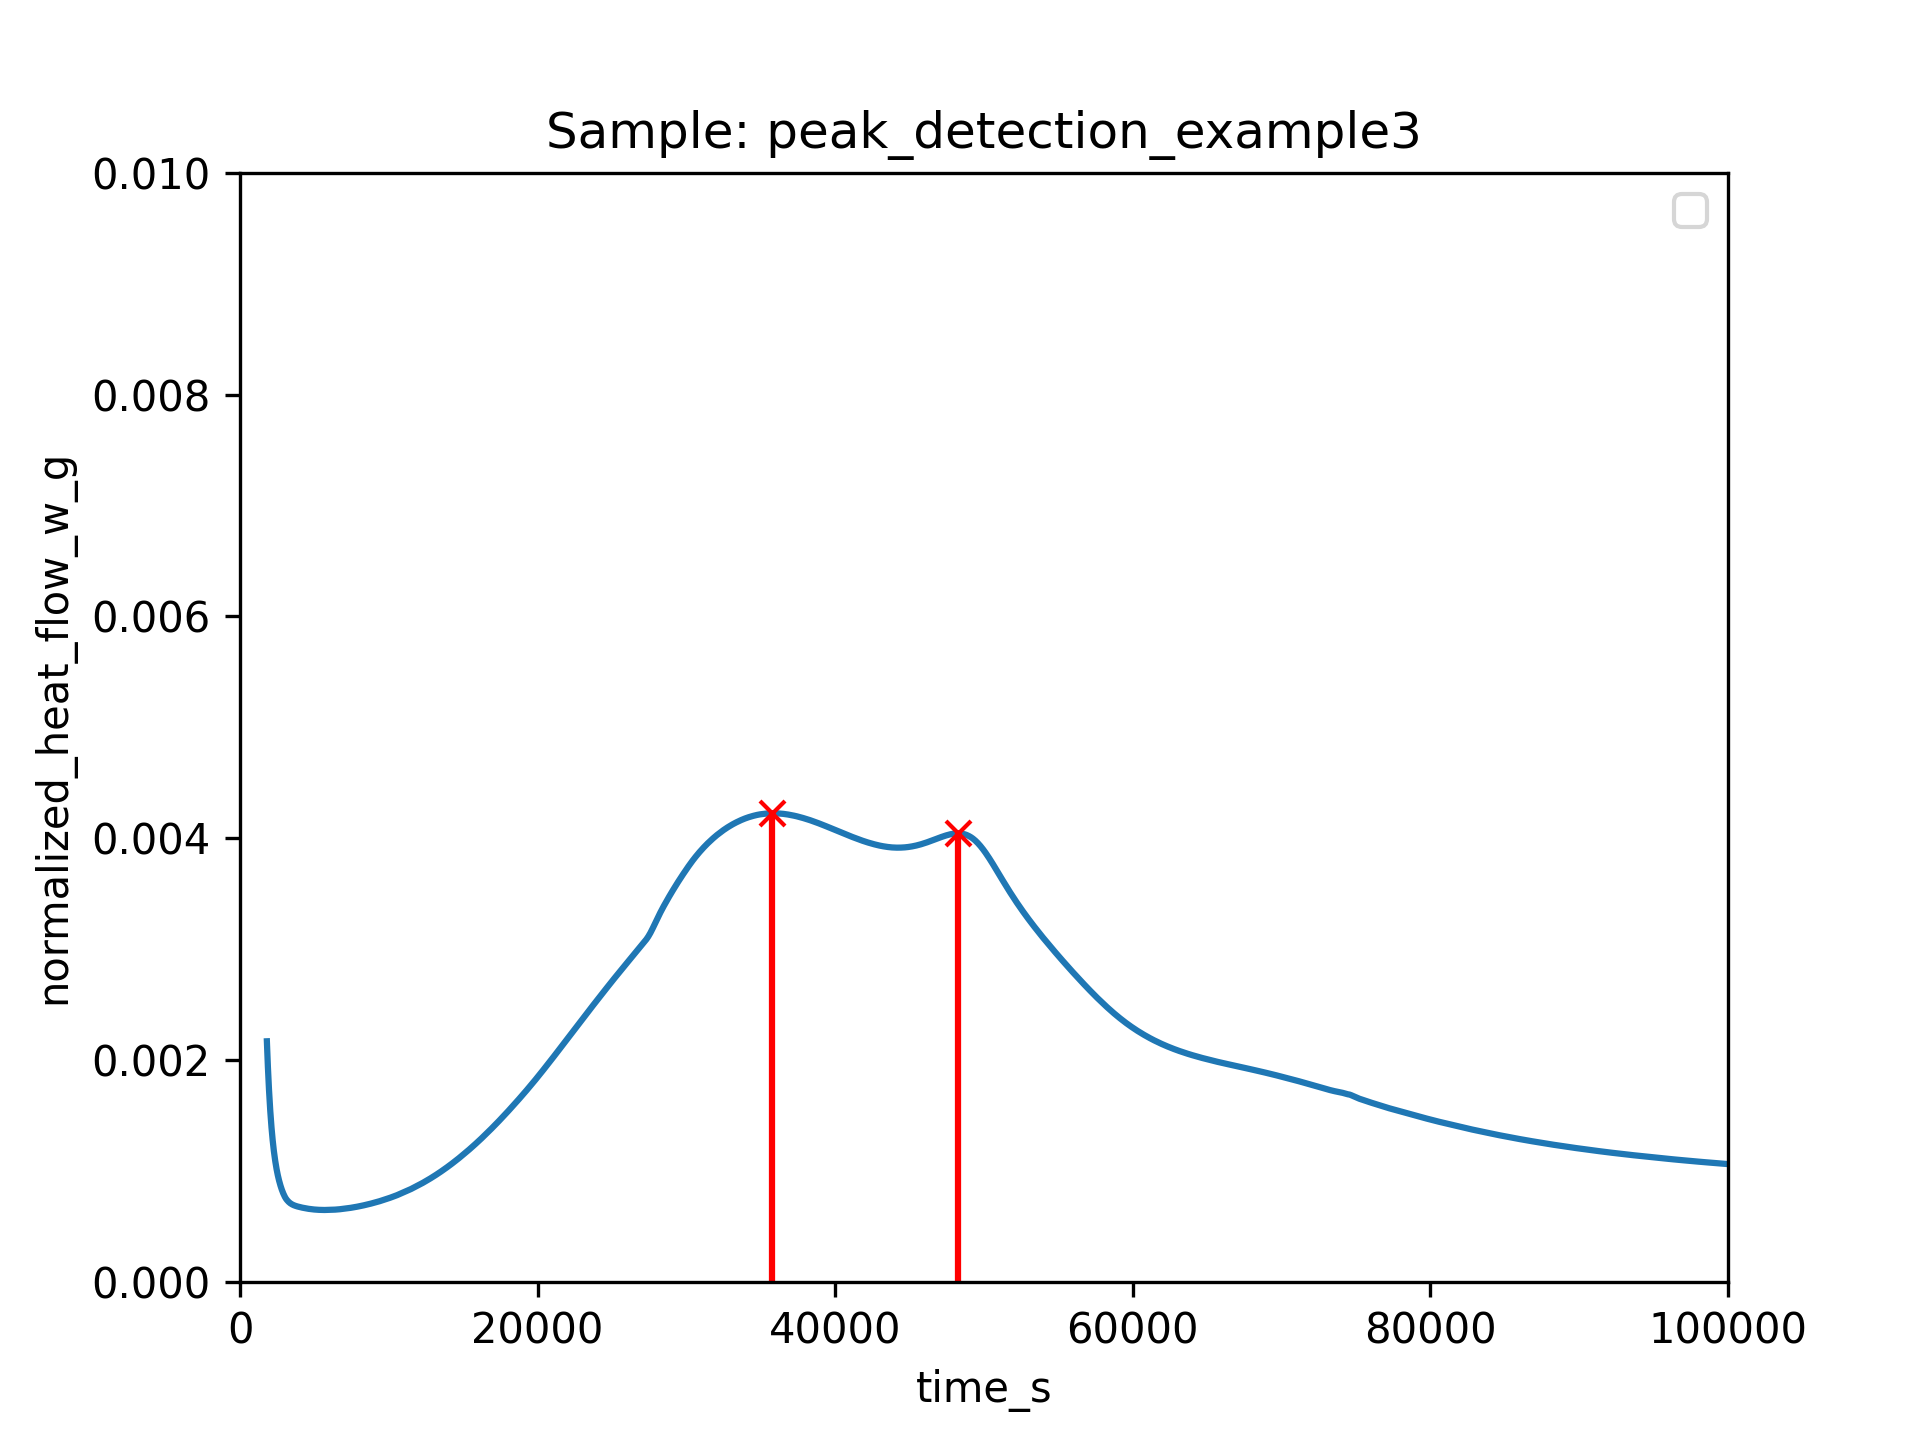
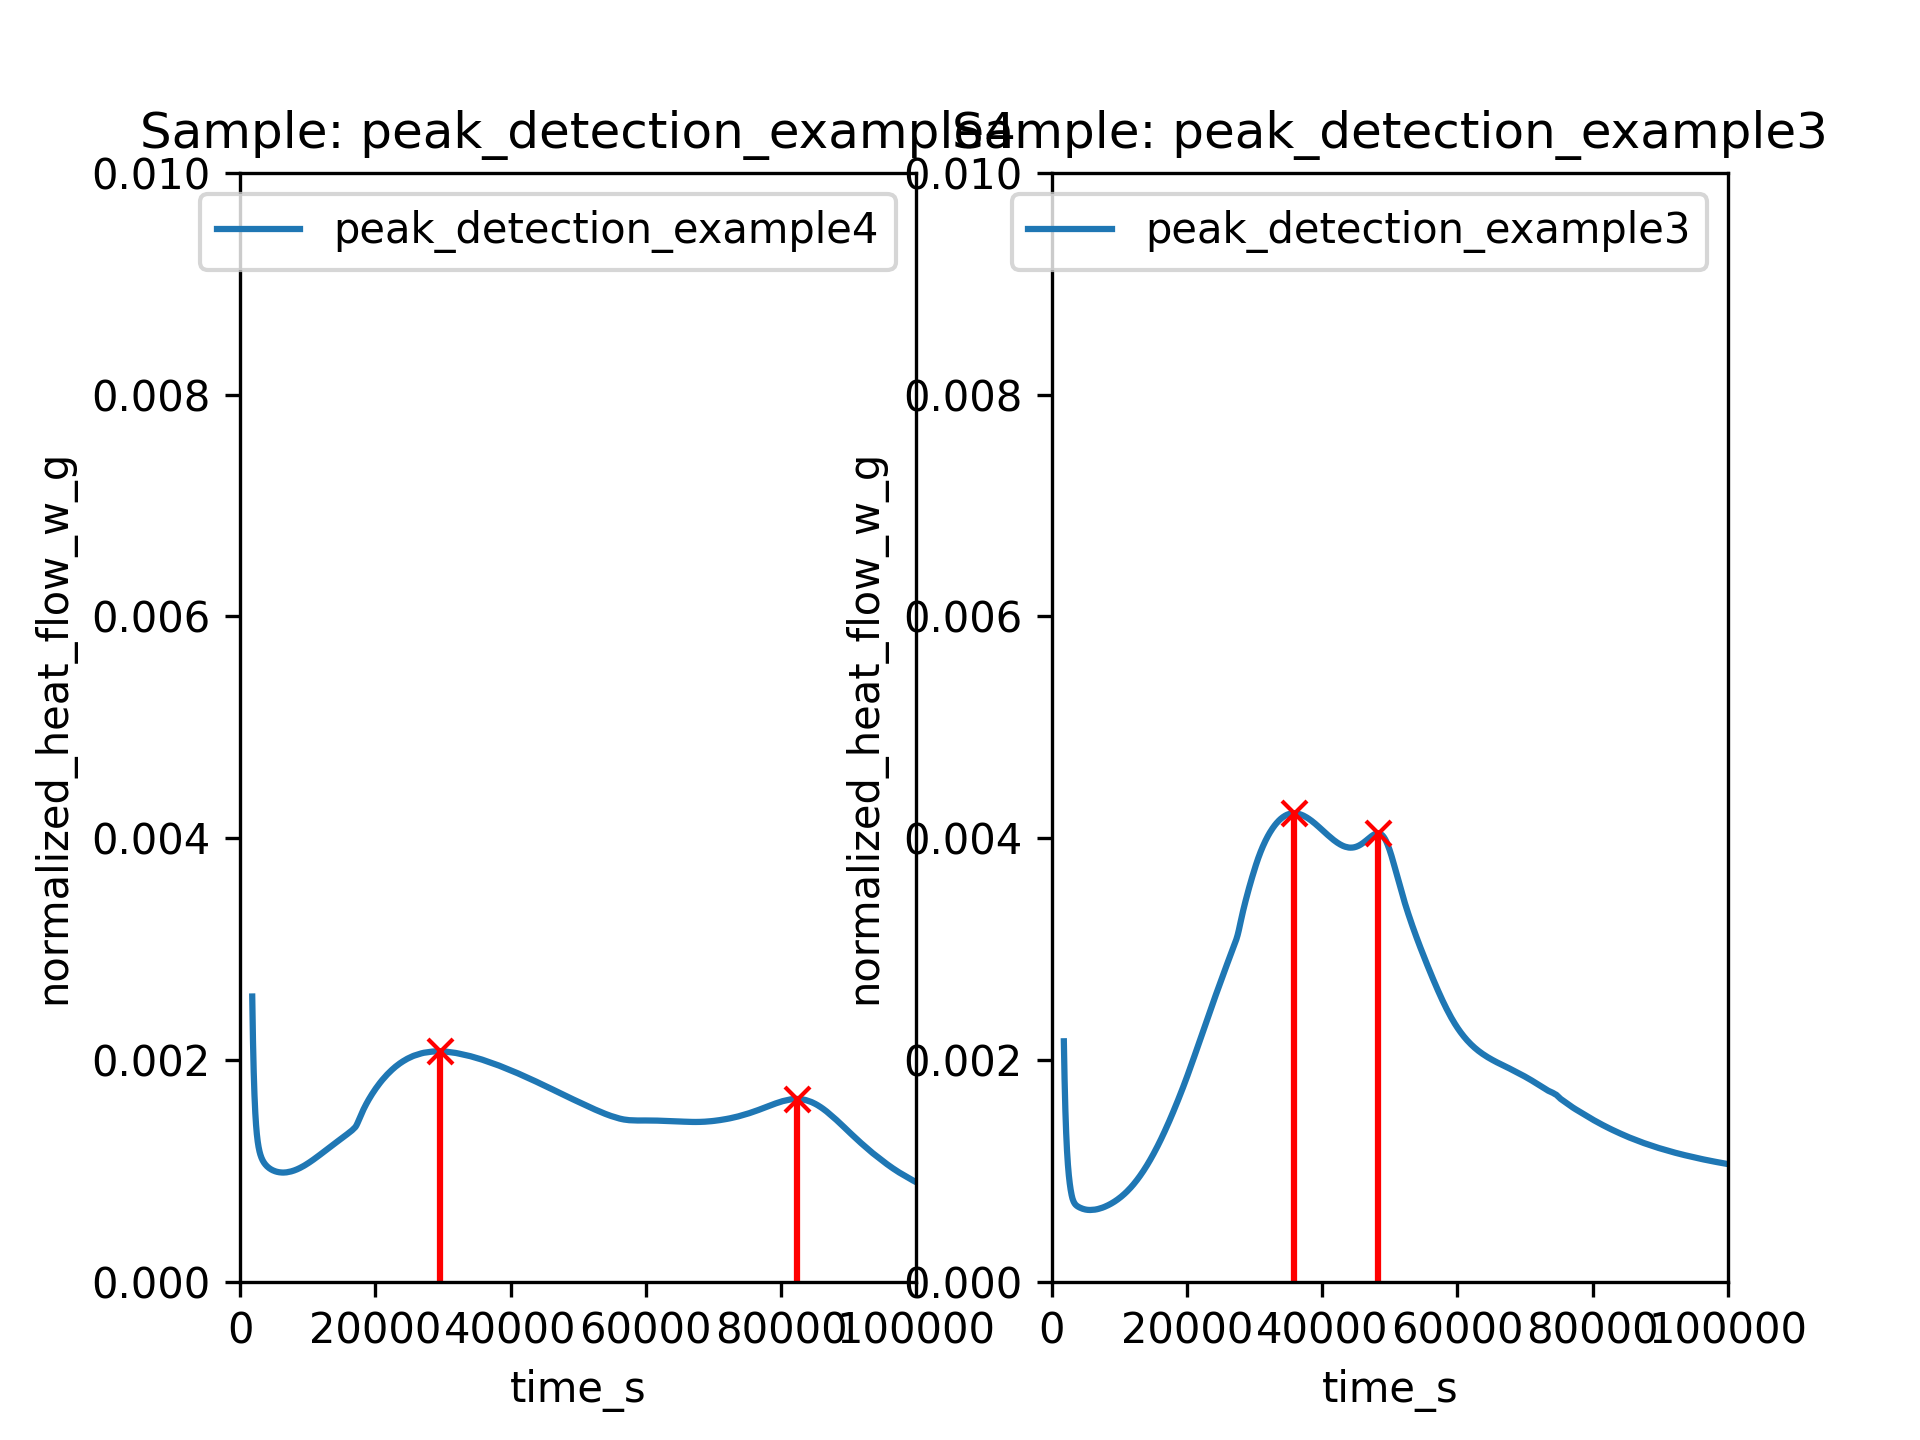
fixed bug in get_peaks() method

diff --git a/examples/example_get_peaks.py b/examples/example_get_peaks.py
@@ -8,7 +8,7 @@ plotpath = Path(__file__).parent.parent / "docs" / "assets"
 # experiments via class
 tam = ta.Measurement(
     folder=datapath,
-    regex=r".*peak_detection_example[3].*",
+    regex=r".*peak_detection_example[3-4].*",
     show_info=True,
     auto_clean=False,
     cold_start=True,
@@ -18,10 +18,13 @@ tam = ta.Measurement(
 processparams = ta.ProcessingParameters()
 processparams.peakdetection.prominence = 1e-4
 
-fig, ax = ta.plt.subplots()
+fig, axs = ta.plt.subplots(1, 2)
 
-peaks_found = tam.get_peaks(processparams, plt_right_s=3e5, ax=ax, show_plot=True)
-ax.set_xlim(0, 100000)
+peaks_found = tam.get_peaks(processparams, plt_right_s=3e5, ax=axs[0], regex="4", show_plot=True)
+axs[0].set_xlim(0, 100000)
+peaks_found2 = tam.get_peaks(processparams, plt_right_s=3e5, ax=axs[1], regex="3", show_plot=True)
+axs[1].set_xlim(0, 100000)
+
 ta.plt.savefig(plotpath / "example_get_peaks.png", dpi=300)
 
 df = peaks_found[0]

diff --git a/CaloCem/tacalorimetry.py b/CaloCem/tacalorimetry.py
@@ -1029,7 +1029,7 @@ class Measurement:
         Plot detected peaks.
         """
 
-        ax, new_ax = utils.create_base_plot(data, ax, _age_col, _target_col)
+        ax, new_ax = utils.create_base_plot(data, ax, _age_col, _target_col, sample)
 
         ax.plot(
             data[_age_col][peaks],
